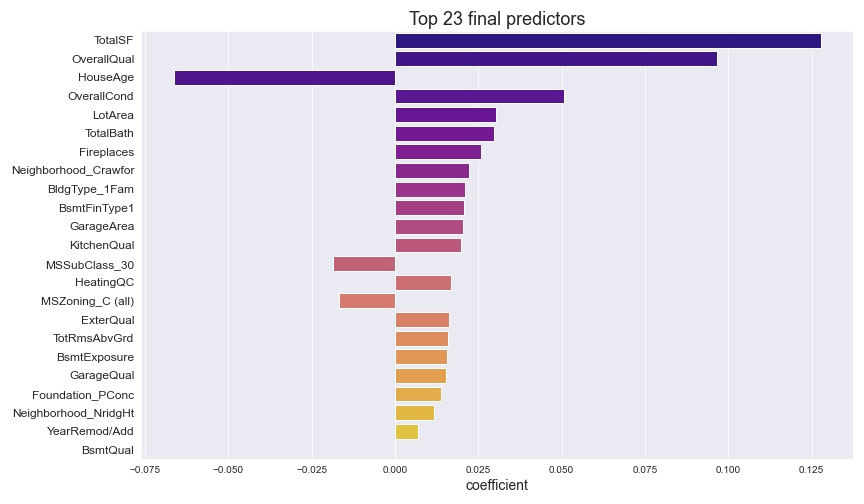
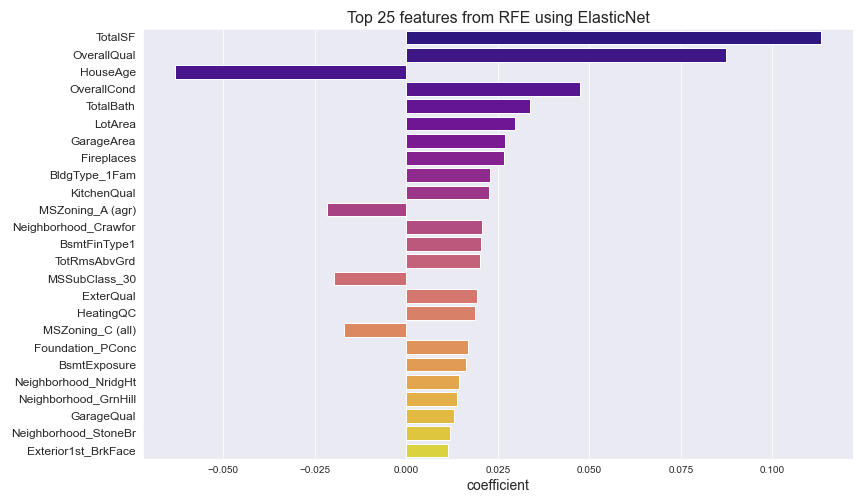
update text

diff --git a/Housing-prediction/README.md b/Housing-prediction/README.md
@@ -97,27 +97,37 @@ These are the final 23 predictors used in our model.
 
 ![](images/final_23_pred.png)
 
-The coefficients from our Elastic Net regression tell us the relative importance of each feature on `SalePrice`, but they are not directly interpretable and do not tell us the effect of one unit change in the feature variable on `SalePrice`. Homeowners can focus on these features when trying to improve the value of their homes.
-
-1. As expected, a higher/better value in these features will almost always increase house value: `TotalSF`, `OverallQual`, `OverallCond`, `LotArea`, `TotalBath`, `Fireplaces`, `GarageArea`, `KitchenQual`, `HeatingQC`, `ExterQual`, `TotRmsAbvGrd`, `BsmtExposure`, `GarageQual`, `YearRemod/Add`.
+The coefficients from our Elastic Net regression tell us the relative importance of each feature on `SalePrice`, but they are not directly interpretable and do not tell us the effect of one unit change in the feature variable on `SalePrice`. That said, homeowners can still focus on these features when trying to improve the value of their homes.
 
 
-2. A further investigation we can make is to check what finishings were used on houses with high `OverallQual` or `ExterQual`. Homeowners can select the finishings with the highest benefit-to-cost ratio to use on their houses when renovating, in order to bring about the greatest increment in `SalePrice`.
+**Quantity/quality-related house features**
+
+1. As expected, a higher/better value in these features will almost always increase house value: `TotalSF`, `OverallQual`, `OverallCond`, `TotalBath`, `LotArea`, `Fireplaces`, `GarageArea`, `BsmtFinType1`, `KitchenQual`, `HeatingQC`, `TotRmsAbvGrd`, `BsmtExposure`, `ExterQual`, `GarageQual`.
 
 
-3. `HouseAge` is negatively correlated with `SalePrice`, which is also to be expected. Homeowners of older houses could remodel their houses before putting it up in the market for sale if they want to increase its `SalePrice`.
+2. A further investigation we can make is to check what finishings were used on houses with high `OverallQual` or `ExterQual`. Homeowners can select finishings with the best benefit-to-cost ratio to use on their houses when renovating, in order to bring about the greatest increment in `SalePrice`.
 
 
-4. According to this model, `BldgType_1Fam` aka single-family detached houses will fetch higher prices than other types. A cross-reference to the boxplot of `SalePrice` against `BldgType` from our initial EDA showed us that there is a greater range of house prices associated with this building type, but that is only natural because most of the houses in our dataset are of this type (82.8%). We have to keep this in mind and avoid wrongly assuming that `BldgType_1Fam` properties will definitely have higher prices.
+**Physical attributes of the house**
+
+3. According to this model, `BldgType_1Fam` aka single-family detached houses will fetch higher prices than other types. A cross-reference to the boxplot of `SalePrice` against `BldgType` from our initial EDA showed us that there is a greater range of house prices associated with this building type, but that is only natural because most of the houses in our dataset are of this type (82.8%). We have to keep this in mind and avoid wrongly assuming that `BldgType_1Fam` properties will definitely have higher prices.
 
 
-5. It is common knowledge that location is a big determinant of a house's price. Neighborhood-wise, houses located in `Crawfor` and `NridgHt` are expected to fetch higher prices. Investing in any undervalued houses in these neighborhoods will likely generate a positive return on investment.
+4. Houses with concrete (`PConc`) foundation are expected to have higher prices according to the model. This is not a conclusion we can make too quickly, as most houses in our dataset have a concrete foundation and we have limited instances with `PConc` foundation. This is a similar problem as described in point 3.
 
 
-6. Properties of building class type 30 (`MSSubClass_30`), which are commercial buildings, are expected to have lower prices. Without knowing more details about those commercial properties in our dataset, it would not be wise to say that commercial properties are a poor investment in Ames.
+5. `Exterior1st_BrkFace` is positively correlated with `SalePrice`, suggesting that a brick facade is more popular in Ames.
 
 
-7. Houses with concrete (`PConc`) foundation are expected to have higher prices according to the model. This is not a conclusion we can make too quickly, as most houses in our dataset have a concrete foundation. This is a similar problem as described in point 5.
+**Other features**
+
+6. It is common knowledge that location is a big determinant of a house's price. Neighborhood-wise, houses located in `Crawfor`, `NridgHt` and `StoneBr` are expected to fetch higher prices. Investing in undervalued houses in these neighborhoods will likely generate a positive return on investment.
+
+
+7. Properties of classified as commercial buildings (`MSZoning_C (all)`), which are commercial buildings, are expected to have lower prices. Without knowing more details about those commercial properties in our dataset, it would not be wise to say that commercial properties are a poor investment in Ames.
+
+
+8. `HouseAge` is negatively correlated with `SalePrice`, as is `MSSubClass_30` (1-STORY 1945 & OLDER). Homeowners of older houses could remodel their houses before putting it up in the market for sale if they want to increase its `SalePrice`.
 
 
 ### Limitations
